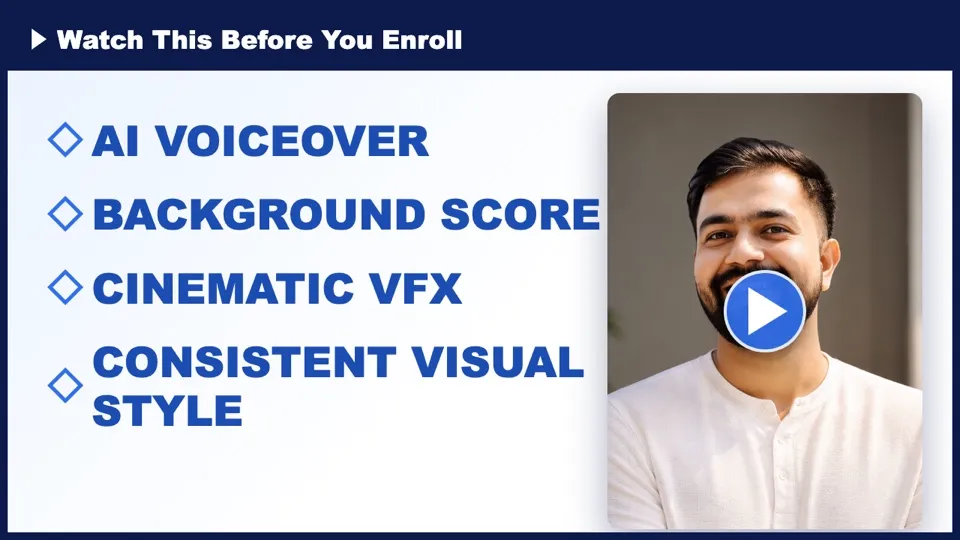
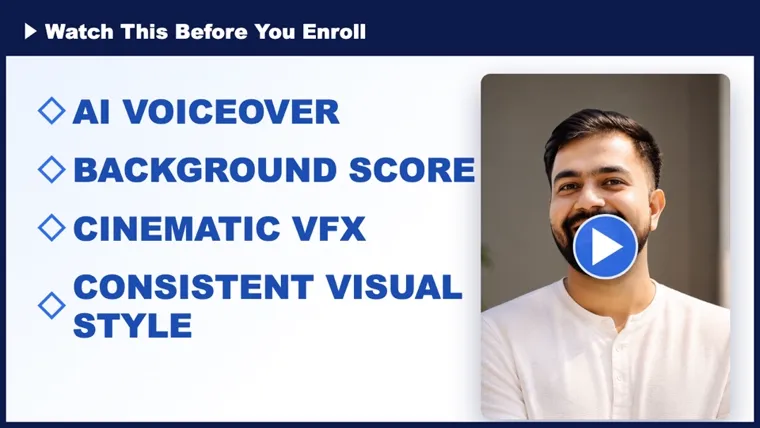
Right-size YouTube demo thumbnail and hero webp to cut image payload
hqdefault.jpg (480x360) replaces oversized maxresdefault.jpg (1280x720) in a
max-width:900px container; hero webp resized to match its actual display box.

Changed region(s): [[0.4237, 0.0607, 0.4539, 0.0911]]

diff --git a/ai-film-making-landing.html b/ai-film-making-landing.html
@@ -1232,7 +1232,7 @@
       <!-- Horizontal full-width demo video -->
       <div style="max-width:900px;margin:0 auto;border-radius:20px;overflow:hidden;box-shadow:0 24px 60px rgba(0,0,0,.55),0 0 0 1px rgba(255,255,255,.08);">
         <div id="demo-phone-video" style="position:relative;width:100%;aspect-ratio:16/9;background:#000;cursor:pointer;" onclick="document.getElementById('demo-phone-video').innerHTML='&lt;iframe src=\'https://www.youtube.com/embed/CzdUUT8pHGk?rel=0&amp;autoplay=1&amp;playsinline=1\' frameborder=\'0\' allow=\'autoplay;encrypted-media\' allowfullscreen style=\'width:100%;height:100%;position:absolute;top:0;left:0;\'&gt;&lt;/iframe&gt;'">
-          <img src="https://i.ytimg.com/vi/CzdUUT8pHGk/maxresdefault.jpg" alt="Watch the AI film demo" style="width:100%;height:100%;object-fit:cover;display:block;" loading="lazy" onerror="this.src='https://i.ytimg.com/vi/CzdUUT8pHGk/sddefault.jpg'"/>
+          <img src="https://i.ytimg.com/vi/CzdUUT8pHGk/hqdefault.jpg" alt="Watch the AI film demo" style="width:100%;height:100%;object-fit:cover;display:block;" loading="lazy" onerror="this.src='https://i.ytimg.com/vi/CzdUUT8pHGk/sddefault.jpg'"/>
           <div style="position:absolute;top:50%;left:50%;transform:translate(-50%,-50%);width:90px;height:64px;background:#2F6FEB;border-radius:16px;display:flex;align-items:center;justify-content:center;box-shadow:0 8px 24px rgba(0,0,0,.4);">
             <div style="width:0;height:0;border-top:17px solid transparent;border-bottom:17px solid transparent;border-left:28px solid white;margin-left:5px;"></div>
           </div>

diff --git a/index.html b/index.html
@@ -1232,7 +1232,7 @@
       <!-- Horizontal full-width demo video -->
       <div style="max-width:900px;margin:0 auto;border-radius:20px;overflow:hidden;box-shadow:0 24px 60px rgba(0,0,0,.55),0 0 0 1px rgba(255,255,255,.08);">
         <div id="demo-phone-video" style="position:relative;width:100%;aspect-ratio:16/9;background:#000;cursor:pointer;" onclick="document.getElementById('demo-phone-video').innerHTML='&lt;iframe src=\'https://www.youtube.com/embed/CzdUUT8pHGk?rel=0&amp;autoplay=1&amp;playsinline=1\' frameborder=\'0\' allow=\'autoplay;encrypted-media\' allowfullscreen style=\'width:100%;height:100%;position:absolute;top:0;left:0;\'&gt;&lt;/iframe&gt;'">
-          <img src="https://i.ytimg.com/vi/CzdUUT8pHGk/maxresdefault.jpg" alt="Watch the AI film demo" style="width:100%;height:100%;object-fit:cover;display:block;" loading="lazy" onerror="this.src='https://i.ytimg.com/vi/CzdUUT8pHGk/sddefault.jpg'"/>
+          <img src="https://i.ytimg.com/vi/CzdUUT8pHGk/hqdefault.jpg" alt="Watch the AI film demo" style="width:100%;height:100%;object-fit:cover;display:block;" loading="lazy" onerror="this.src='https://i.ytimg.com/vi/CzdUUT8pHGk/sddefault.jpg'"/>
           <div style="position:absolute;top:50%;left:50%;transform:translate(-50%,-50%);width:90px;height:64px;background:#2F6FEB;border-radius:16px;display:flex;align-items:center;justify-content:center;box-shadow:0 8px 24px rgba(0,0,0,.4);">
             <div style="width:0;height:0;border-top:17px solid transparent;border-bottom:17px solid transparent;border-left:28px solid white;margin-left:5px;"></div>
           </div>
